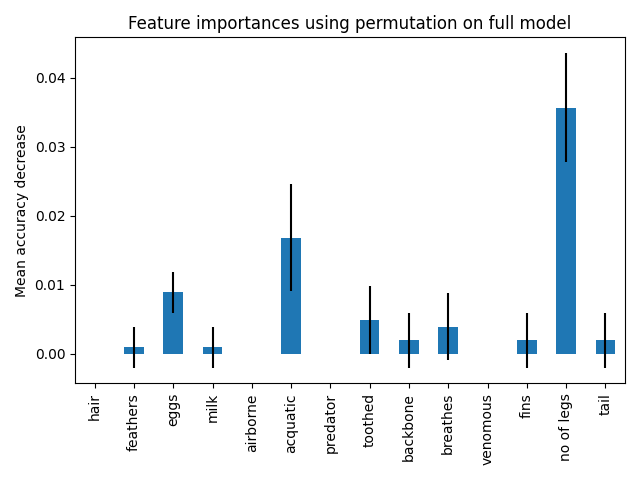
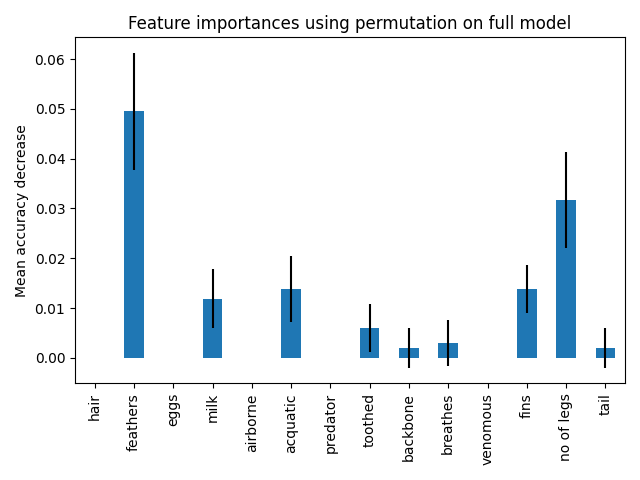
added integration of random forest into program

diff --git a/rdr.py b/rdr.py
@@ -316,6 +316,7 @@ X = df.iloc[:,1:-4] # X-values: leave out last 2 columns (encoded, conclusion) a
 y = df.iloc[:,-2].astype('int') # take target as encoded column (second last column). note: all values must be numeric - hence encoded
 dt = DecisionTreeClassifier()
 dt = dt.fit(X, y)
+
 # show the dt - in file
 #tree.plot_tree(dt) # doesnt work
 feature_names = df.columns.values[1:-4] # leave out last 3 columns (4 and dont give name)
@@ -326,9 +327,10 @@ dot_data = StringIO()
 export_graphviz(dt, out_file=dot_data, feature_names=feature_names, class_names=target_names , filled=True)
 (graph, ) = graph_from_dot_data(dot_data.getvalue())
 # print(dot_data.getvalue()) - dot data - print to find node numers in dt
-graph.write_png('tree2.png')
+treefile = "tree2.png"
+graph.write_png(treefile)
 Image(graph.create_png())
-print("Done\n")
+print("Done")
 #predict
 #y_pred = dt.predict(X_test)
 #confusion matrix
@@ -341,69 +343,52 @@ print(f"training random forest as \"black box\" classifier...", end='')
 rf = RandomForestClassifier() # using default parameters (100 trees)
 rf = rf.fit(X, y)
 print("Done\n")
-importances = rf.feature_importances_
-importances_dictionary = dict(zip(feature_names, importances))
-sort_importances = sorted(importances_dictionary.items(), key=lambda x: x[1], reverse=True)
-print("feature importance determined by random forest - most to least important for entire dataset")
-for i in sort_importances:
-    print(f"{i[0]}: {i[1]}")
-print()
 
-# plot - MDI (mean decrease in impurity) - relatively stable
-std = np.std([
-    tree.feature_importances_ for tree in rf.estimators_], axis=0)
-forest_importances = pd.Series(importances, index=feature_names)
-fig, ax = plt.subplots()
-forest_importances.plot.bar(ax=ax) #yerr=std - add horizontal / vertical errorbars to the bar tips. The values are +/- sizes relative to the data
-ax.set_title("Feature importances using MDI") 
-ax.set_ylabel("Mean decrease in impurity")
-fig.tight_layout()
-plt.savefig('randomforestfeatureimportancesMDI.png')
-
-# plot - MAD (mean accuracy decrease) - a bit wild
-result = permutation_importance(
-    rf, X, y, n_repeats=10, random_state=42, n_jobs=2)
-
-forest_importances = pd.Series(result.importances_mean, index=feature_names)
-fig, ax = plt.subplots()
-forest_importances.plot.bar(yerr=result.importances_std, ax=ax)
-ax.set_title("Feature importances using permutation on full model")
-ax.set_ylabel("Mean accuracy decrease")
-fig.tight_layout()
-plt.savefig('randomforestfeatureimportancesMAD.png')
-
+# choose bb model
+print(f"Choose which model to use as a black box classifier: ")
+print("Press (1) to use a decision tree")
+print("Press (2) to use a random forest")
+m = int(input())
+bb = dt # black box is decision tree by default
+# use decision tree (dt)
+if m == 1:
+    bb = dt
+# use random forest (rf)
+else:
+    bb = rf
 
 # prompt loop
 while (True):
     print(f"Welcome to python RDR")
     print("Press (1) to see cases dataframe")
-    print("Press (2) to run decision tree on a single case")
+    print("Press (2) to run black box classifier on a single case")
     print("Press (3) to run rules on single case")
     print("Press (4) to run rules on all cases")
     print("Press (5) to see all rules")
     print("Press (6) to clear rules")
     print("Press (7) to clear conclusions")
     print("Press (8) to show decision path of decision tree")
-    print("Press (9) to save current rules_list to a file")
-    print("Press (10) to read in a new rules_list from a file")
+    print("Press (9) to show feature importances of random forest")
+    print("Press (10) to save/loadrules_list to/from a file")
+    print("Press (11) to change black box model")
     #print("Press (q) to quit")
     i = int(input())
     # print cases dataframe
     if i == 1:
         print(df)
-    # run dt on case
+    # run bb on case
     elif i == 2:
-        case = input("Which case to run on the decision tree?\n").lower()
-        prediction = predict_case(df, dt, case)    
-        print(f"\nDecision tree classification: {prediction}\n") 
+        case = input("Which case to run on the black box? \n").lower()
+        prediction = predict_case(df, bb, case)    
+        print(f"\nBlack box classification: {prediction}\n") 
     # run rules on a single case
     elif i == 3:
         # TODO add check if case is legit
         case = input("Which case to run?\n").lower()
-        # run case through dt and observe prediction 1
+        # run case through black box and observe prediction 1
         print(f"Case: {case}")
-        pred1 = predict_case(df, dt, case)    
-        print(f"Decision tree classification: {pred1}") 
+        pred1 = predict_case(df, bb, case)    
+        print(f"Black box classification: {pred1}") 
         # run case through rules and observe prediction 2 - this function includes prints unlike run on all cases
         last_rule = run_case(df, case)
         caserow = df.loc[df["name"] == case]
@@ -437,10 +422,10 @@ while (True):
     elif i == 4:
         # for each case
         for case in df['name']:
-            # run case through dt and observe prediction 1
+            # run case through black box and observe prediction 1
             print(f"Case: {case}")
-            pred1 = predict_case(df, dt, case)    
-            print(f"Decision tree classification: {pred1}") 
+            pred1 = predict_case(df, bb , case)    
+            print(f"Black box classification: {pred1}") 
             # run case through rules and observe prediction 2
             last_rule = run_case_no_prints(df, case)
             caserow = df.loc[df["name"] == case]
@@ -547,43 +532,92 @@ while (True):
             else:
                 print(f"value for {features[node_id]} <= {threshold[node_id]} is FALSE. Go to FALSE branch - which is node {dt.tree_.children_right[node_id]}")
         print()
-    # save rules_list
+    # feature importances of random forest
     elif i == 9:
-        print("WARNING: choose a name for a file that does not exist")
-        name = input("Enter name of file to be saved to: \n").lower()
-        f = open(name, "a")
-        # first line is rules count
-        f.write(f"{rules_count}\n")
-        for n in rules_list:
-            if n == None:
-                f.write("None\n")
-            else:
-                f.write('{},{},{},{},{},{},{}\n'.format(n.num, n.data, n.con, str(n.nextTrue), str(n.nextFalse), n.case, str(n.true_cases)))
-        f.close()
-        print(f"Rules in rules_list saved to file: {name}")
-    # read in rules_list
+        importances = rf.feature_importances_
+        importances_dictionary = dict(zip(feature_names, importances))
+        sort_importances = sorted(importances_dictionary.items(), key=lambda x: x[1], reverse=True)
+        print("Feature importance determined by random forest - most to least important for entire dataset")
+        for i in sort_importances:
+            print(f"{i[0]}: {i[1]}")
+        print()
+        print("saving plots of importances to files: randomforestfeatureimportancesMDI.png, randomforestfeatureimportancesMAD.png...", end='')
+
+        # plot - MDI (mean decrease in impurity) - relatively stable
+        std = np.std([
+            tree.feature_importances_ for tree in rf.estimators_], axis=0)
+        forest_importances = pd.Series(importances, index=feature_names)
+        fig, ax = plt.subplots()
+        forest_importances.plot.bar(ax=ax) #yerr=std - add horizontal / vertical errorbars to the bar tips. The values are +/- sizes relative to the data
+        ax.set_title("Feature importances using MDI") 
+        ax.set_ylabel("Mean decrease in impurity")
+        fig.tight_layout()
+        plt.savefig('randomforestfeatureimportancesMDI.png')
+
+        # plot - MAD (mean accuracy decrease) - a bit wild
+        result = permutation_importance(
+            rf, X, y, n_repeats=10, random_state=42, n_jobs=2)
+
+        forest_importances = pd.Series(result.importances_mean, index=feature_names)
+        fig, ax = plt.subplots()
+        forest_importances.plot.bar(yerr=result.importances_std, ax=ax)
+        ax.set_title("Feature importances using permutation on full model")
+        ax.set_ylabel("Mean accuracy decrease")
+        fig.tight_layout()
+        plt.savefig('randomforestfeatureimportancesMAD.png')
+        print("Done\n")
+    # save or read in rules_list
     elif i == 10:
-        print("WARNING: this operation will overwrite your current rules")
-        name = input("Enter name of file to read rules from: \n").lower()
-        f = open(name, "r")
-        data = f.readlines()
-        rules_list = [None] * NUM_RULES
-        i = 0
-        flag = True
-        # go through all rules putting them in rules_list
-        for n in data:
+        saveorload = input("Would you like to save or load rules? (s/l): \n").lower()
+        if saveorload == "s" or saveorload == "save":
+            print("WARNING: choose a name for a file that does not exist")
+            name = input("Enter name of file to be saved to: \n").lower()
+            f = open(name, "a")
             # first line is rules count
-            if flag:
-                rules_count = int(data[0])
-                flag = False
-                continue
-            if n == "None\n":
-                i += 1
-            else:
-                n = n.split("\n")
-                x = n[0].split(",")
-                rules_list[i] = Node(num=x[0], data=x[1], con=x[2], nextTrue=x[3], nextFalse=x[4], case=x[5], true_cases=x[6])
-                i += 1
+            f.write(f"{rules_count}\n")
+            for n in rules_list:
+                if n == None:
+                    f.write("None\n")
+                else:
+                    f.write('{},{},{},{},{},{},{}\n'.format(n.num, n.data, n.con, str(n.nextTrue), str(n.nextFalse), n.case, str(n.true_cases)))
+            f.close()
+            print(f"Rules in rules_list saved to file: {name}")
+        else:
+            print("WARNING: this operation will overwrite your current rules")
+            name = input("Enter name of file to read rules from: \n").lower()
+            f = open(name, "r")
+            data = f.readlines()
+            rules_list = [None] * NUM_RULES
+            i = 0
+            flag = True
+            # go through all rules putting them in rules_list
+            for n in data:
+                # first line is rules count
+                if flag:
+                    rules_count = int(data[0])
+                    flag = False
+                    continue
+                if n == "None\n":
+                    i += 1
+                else:
+                    n = n.split("\n")
+                    x = n[0].split(",")
+                    rules_list[i] = Node(num=x[0], data=x[1], con=x[2], nextTrue=x[3], nextFalse=x[4], case=x[5], true_cases=x[6])
+                    i += 1
+    # change black box model
+    elif i == 11:
+        # choose bb model
+        print(f"Choose which model to use as a black box classifier: ")
+        print("Press (1) to use a decision tree")
+        print("Press (2) to use a random forest")
+        m = int(input())
+        bb = dt # black box is decision tree by default
+        # use decision tree (dt)
+        if m == 1:
+            bb = dt
+        # use random forest (rf)
+        else:
+            bb = rf
     else: 
         exit()
 
